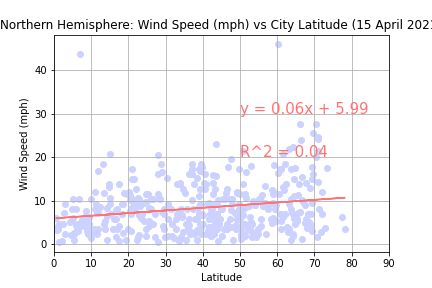
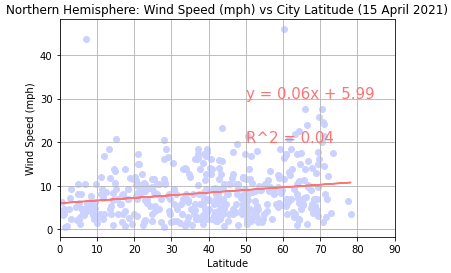
fixed cut-off images

Changed region(s): [[0.0, 0.0, 0.9931, 0.9963]]

diff --git a/visualizations/style.css b/visualizations/style.css
@@ -52,8 +52,8 @@ img {
 }
 
 .side-by-side img {
-  width: 450px;
-  height: 250px;
+  width: 475px;
+  height: 300px;
 }
 
 .viz-links {
